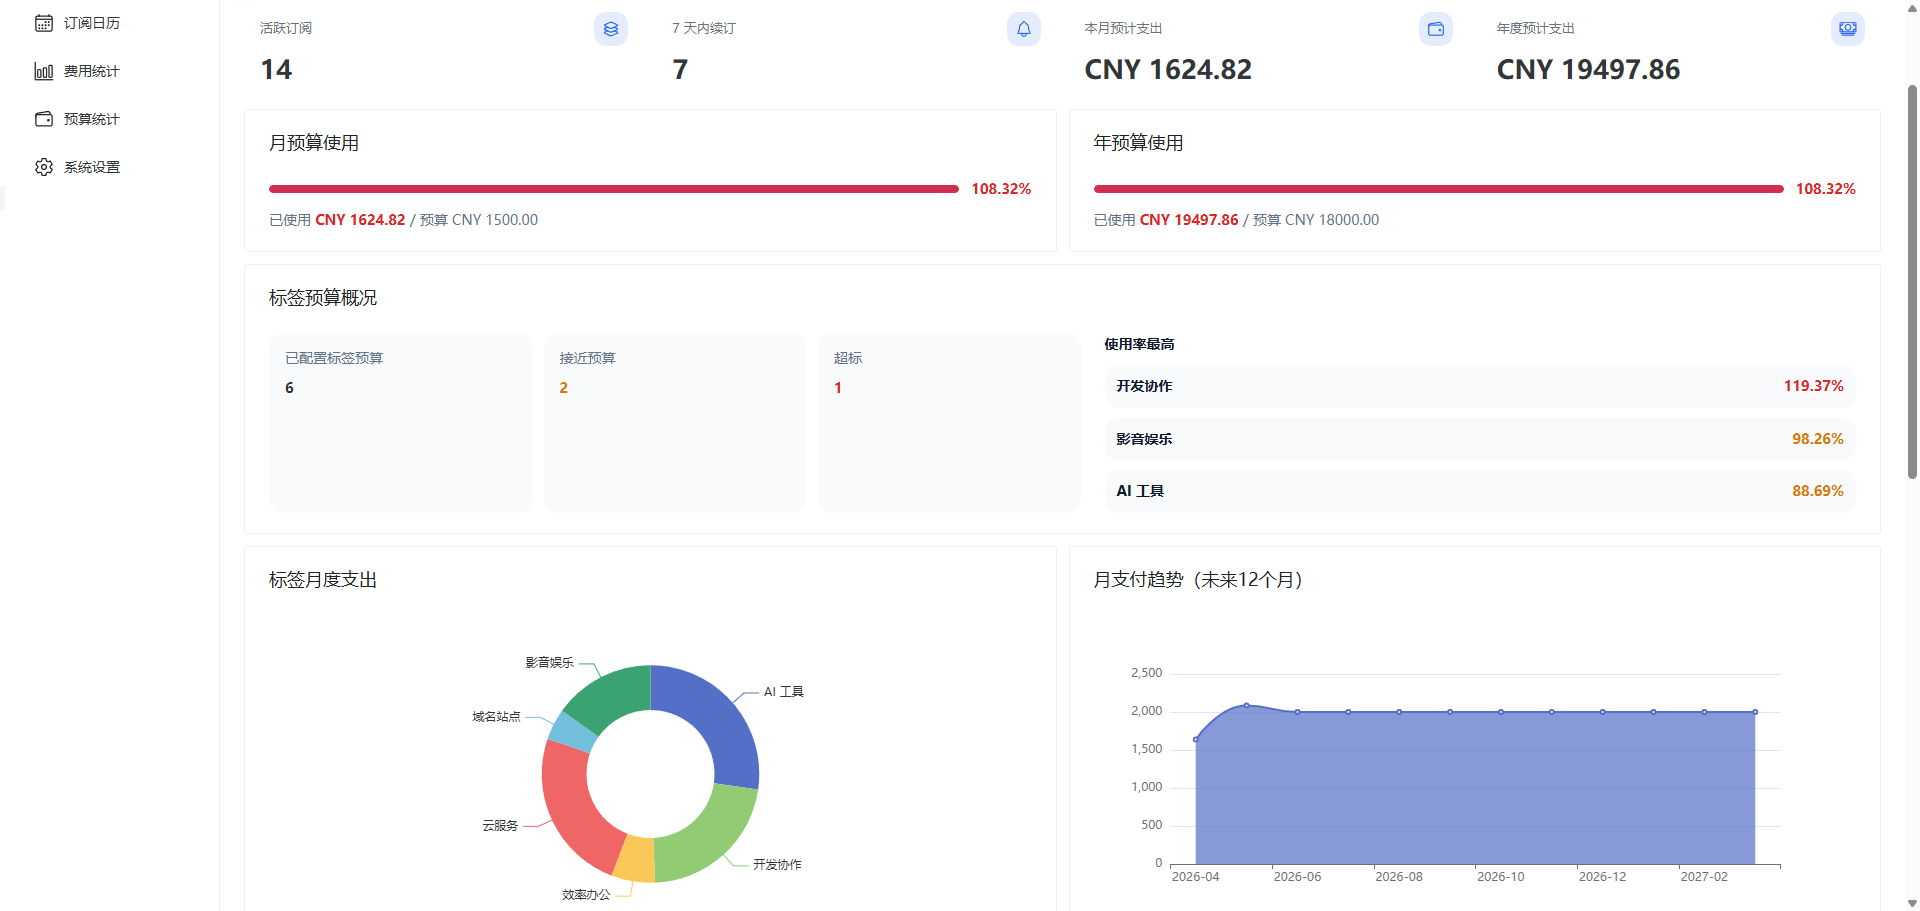
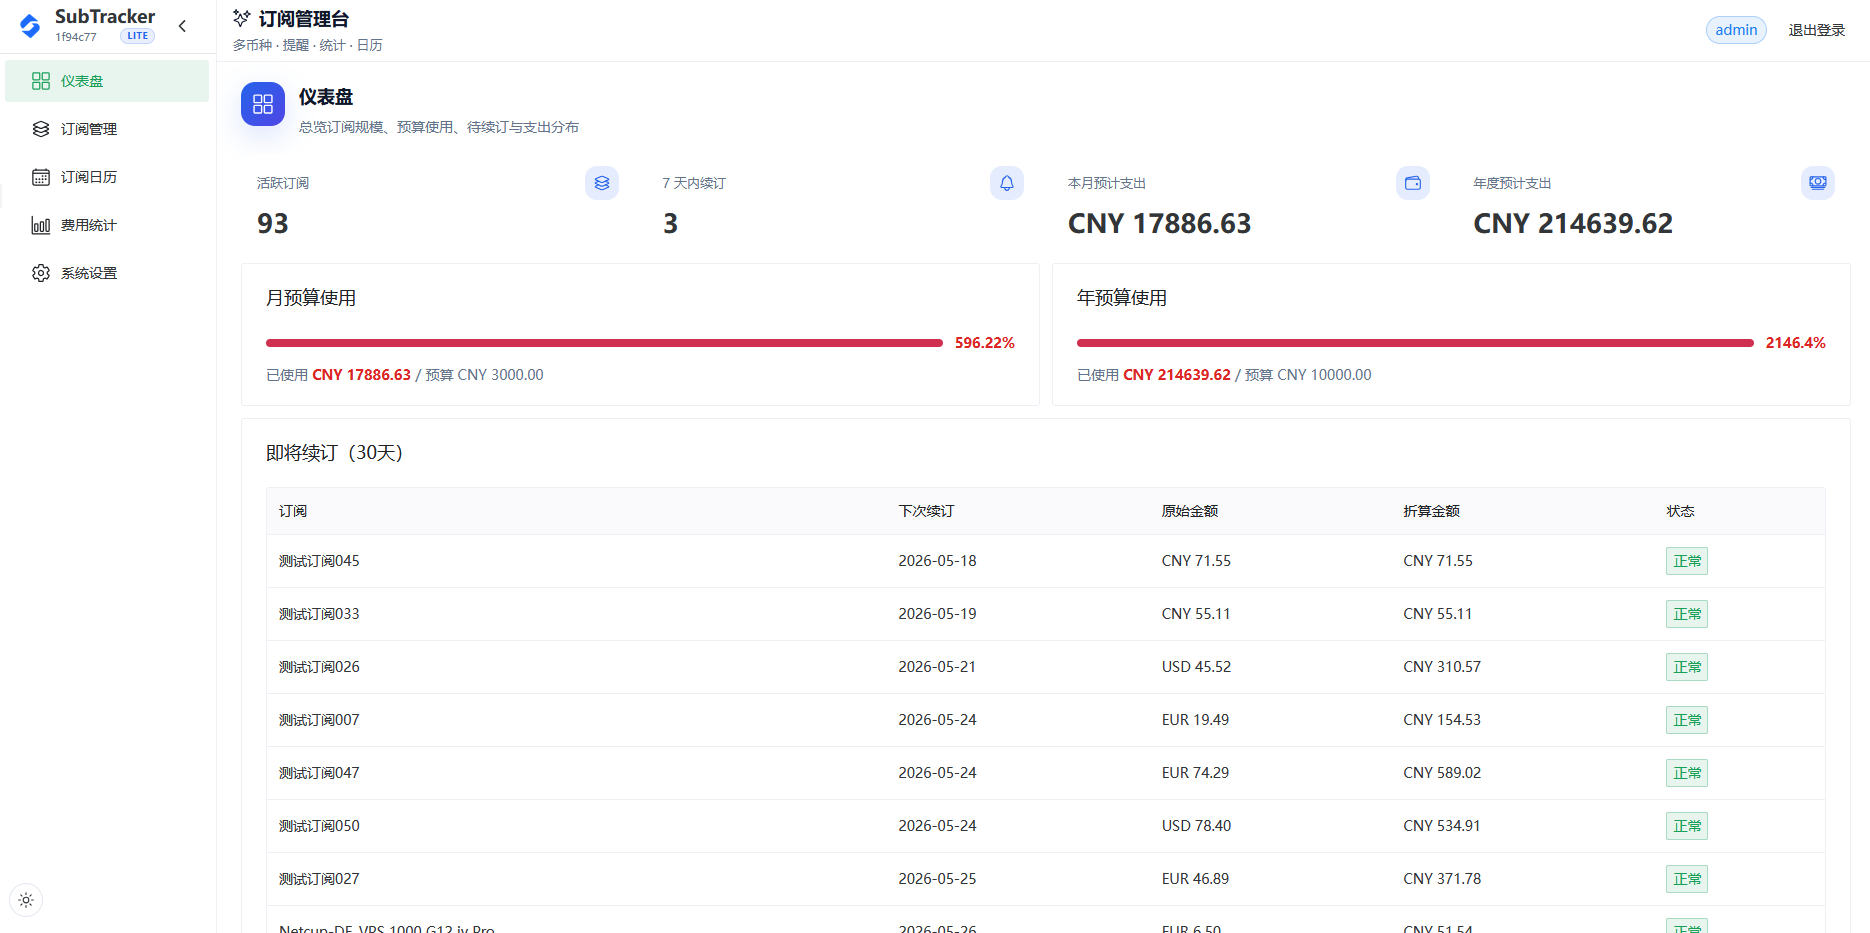
docs: update lite release notes
本次 lite 更新面向 Cloudflare Worker Free 的自部署用户，重点是让仪表盘、费用统计、登录、导入和自动续费这些高频路径更轻、更稳定。

升级说明：

- 如果你当前仍在 be70f8d2d9d1a7a0c9f6e814ff7f4c16e57cefd5，可以直接通过当前 GitHub Actions 部署到新版本。

- 本次更新不需要手工数据库迁移，也不需要重建 D1。

- 普通用户部署后刷新页面即可使用新版界面。

功能调整：

- 标签月预算已从 lite 分支移除。全局月预算、全局年预算和仪表盘预算使用率继续保留。

- 独立预算页和对应菜单入口已移除。

- 仪表盘改为轻量首页，只保留核心指标、全局预算和即将续订列表。

- 费用统计现在保留费用概览、状态分布、币种分布、月订阅支出 TOP10 和 AI 总结。

- 仪表盘趋势图、标签预算图、标签月度支出、未来 12 个月支付趋势、未来 30 天按日续订分布、自动续订占比等展示已从 lite 分支移除。

性能与稳定性优化：

- 统计和仪表盘不再展示空壳图表，减少无效内容和无意义加载。

- /statistics/overview 的负载更轻，Worker 免费版下更不容易因为统计内容过重浪费资源。

- 登录路径继续保留记住我、默认密码修改提醒和失败限流；旧账号升级后可以继续登录。

- 自动续费仍可使用，但历史积压会分批追赶，不再保证一次 cron 补完整个 backlog，从而降低单次定时任务压力。

导入与兼容：

- Wallos JSON / SQLite / ZIP 导入仍可使用。

- SubTracker 备份 ZIP 导入继续保留。

- 升级后请使用同版本前端完成导入流程，避免旧页面和新接口混用。

文档同步：

- README 已更新功能亮点和 lite 版说明。

- DEPLOYMENT 已更新能力边界、旧版本升级说明、缓存说明、导入说明、自动续费说明，以及仪表盘 / 费用统计的新版展示范围。

diff --git a/DEPLOYMENT.md b/DEPLOYMENT.md
@@ -208,15 +208,43 @@ https://api.resend.com/emails
 - Resend 邮件
 - AI 文本 / 图片识别
 - Wallos JSON / SQLite / ZIP 导入
+- SubTracker 备份 ZIP 导入
 
 ### 不支持
 
 - 本地 OCR
 - 原生 SMTP
+- 标签月预算
+- 独立预算统计页
+- 仪表盘趋势图 / 标签预算图
+- 费用统计自动续订占比图
 
 ---
 
-## 九、Worker Lite 的性能取舍
+## 九、从旧 lite 版本升级
+
+如果你的 fork 仍停留在：
+
+- `be70f8d2d9d1a7a0c9f6e814ff7f4c16e57cefd5`
+
+可以直接通过当前 GitHub Actions 部署到本版本：
+
+- **不需要手工数据库迁移**
+- **不需要重建 D1**
+
+升级后的对外变化：
+
+- 标签月预算、预算页和对应菜单入口已删除
+- 仪表盘改为轻量首页，只保留核心指标、全局预算和即将续订列表
+- 费用统计只保留费用概览、状态分布、币种分布、月订阅支出 TOP10 与 AI 总结
+- Wallos / SubTracker 备份导入仍可使用，但需要使用同版本前端完成导入流程
+- 自动续费会分批追赶历史积压，不再一次性补完整个 backlog
+
+对于普通 Web 用户，这些变化随同一版本前端一起发布；部署后刷新页面即可使用新界面。
+
+---
+
+## 十、Worker Lite 的性能取舍
 
 这个分支面向 **Cloudflare Worker Free**，因此实现上做了明确的 Lite 化裁剪，而不是完全复刻 Docker 版的运行模型。
 
@@ -233,7 +261,6 @@ https://api.resend.com/emails
 - `/settings`（5 分钟）
 - `/exchange-rates/latest`（5 分钟）
 - `/statistics/overview`（5 分钟）
-- `/statistics/budgets`（15 分钟）
 - `/calendar/events`（10 分钟）
 
 仍保留短 TTL 内存缓存的读取接口包括：
@@ -253,7 +280,7 @@ https://api.resend.com/emails
 
 - 正常写操作后，统计/日历/汇率相关接口通常会立即切到新版本缓存，而不是机械地等 TTL 过期
 - 真正可能自然短暂变旧的主要是 `/statistics/overview`，在无写操作场景下最多约 5 分钟
-- `/statistics/budgets` 与 `/calendar/events` 更依赖 version bump，正常情况下不应频繁看到明显旧值
+- `/calendar/events` 更依赖 version bump，正常情况下不应频繁看到明显旧值
 - L1 仍是 isolate 级缓存，不保证跨实例强一致
 - D1 二级缓存会跨 isolate 复用，但通过版本号失效而不是逐条删除
 
@@ -278,7 +305,7 @@ https://api.resend.com/emails
 - 读取类接口：使用 isolate 内存短缓存
 - 热点聚合接口：额外落一层 D1 `ComputedCache`
 - 通知去重：回到 D1
-- 导入预览 token：回到 D1
+- 导入预览：按 lite 版导入流程处理
 - Logo 搜索缓存：仅保留进程内短缓存
 
 另外，`ComputedCache` 过期行会通过现有的 hourly Worker cron 顺手清理，不单独增加新的调度器。
@@ -290,11 +317,12 @@ https://api.resend.com/emails
 - Wallos JSON 导入
 - Wallos SQLite 数据库导入（`.db` / `.sqlite` / `.sqlite3`）
 - Wallos ZIP 备份导入
+- SubTracker 备份 ZIP 导入
 
 其中：
 
 - JSON / SQLite / ZIP 的文件解析发生在浏览器端
-- Worker 负责接收预览结果、暂存导入令牌、处理 ZIP Logo（若启用 R2）并最终写库
+- Worker 负责处理 ZIP Logo（若启用 R2）并最终写库
 
 并且会尽量对齐 Wallos 自己的运行时语义：
 
@@ -346,8 +374,42 @@ Worker Lite 的 Logo 搜索只保留：
 - 默认每分钟触发一次提醒扫描
 - 只在规则命中的那一分钟发送提醒
 - 相比旧的 `*/5` 版本，提醒更实时，但不再做 5 分钟补偿命中
+- 没有启用任何通知渠道时，普通 scheduled scan 会直接短路；`/notifications/scan-debug` 仍可用于排障
 
-### 6. 错误提示会明确说明 Worker 限制
+自动续费也做了 lite 限额：
+
+- 历史积压会分批追赶
+- 不再保证一次 cron 就补齐所有过期周期
+
+### 6. 仪表盘 / 费用统计已按 lite 重排
+
+仪表盘只保留轻量信息：
+
+- 顶部摘要指标
+- 全局月 / 年预算使用情况
+- 即将续订列表
+
+费用统计只保留有真实数据支撑的统计视图：
+
+- 费用概览
+- 状态分布
+- 订阅币种分布
+- 月订阅支出 TOP10
+- AI 总结
+
+以下功能 / 展示已从 lite 分支移除：
+
+- 标签月预算
+- 标签月度支出
+- 未来 12 个月支付趋势
+- 未来 30 天按日续订分布
+- 自动续订占比
+
+### 7. 登录体验
+
+登录、记住我、默认密码修改提醒和登录失败限流继续保留；从旧 lite 版本升级后，原账号可以继续登录。
+
+### 8. 错误提示会明确说明 Worker 限制
 
 前端遇到：
 
@@ -361,7 +423,7 @@ Worker Lite 的 Logo 搜索只保留：
 
 ---
 
-## 十、本地手动部署（开发者可选）
+## 十一、本地手动部署（开发者可选）
 
 如果你不是普通 fork 用户，而是本地维护这个分支的开发者，也可以直接在本机执行：
 
@@ -382,7 +444,7 @@ npm run deploy:worker:r2
 
 ---
 
-## 十一、本地开发（开发者可选）
+## 十二、本地开发（开发者可选）
 
 如果你需要本地调试 Worker：
 
@@ -397,6 +459,3 @@ http://127.0.0.1:8787
 ```
 
 > 注意：本地 `wrangler dev` 不会自动触发 cron。
-
----
-

diff --git a/README.md b/README.md
@@ -5,7 +5,7 @@
 <h1 align="center">SubTracker Lite</h1>
 
 <p align="center">
-  一个现代化的自托管订阅管理工具，用来统一管理多币种订阅、续订提醒、预算分析、Logo 资源，以及 Wallos 数据迁移
+  一个现代化的自托管订阅管理工具，用来统一管理多币种订阅、续订提醒、预算概览、Logo 资源，以及 Wallos 数据迁移
 </p>
 
 <p align="center">
@@ -43,9 +43,9 @@
 
 - **订阅管理**：新增、编辑、续订、暂停、停用、记录查看、自定义排序
 - **提醒规则**：支持 `天数&时间;` 格式的灵活提醒规则，覆盖到期前、到期当天与过期提醒，并支持分钟级扫描
-- **标签系统**：多标签归类、筛选、预算分析
-- **预算能力**：总月预算、总年预算、标签月预算、独立的预算统计页
-- **统计分析**：未来 12 个月支付趋势、标签支出占比、状态分布、自动续订占比、未来 30 天续订分布
+- **标签系统**：多标签归类、筛选与自定义排序
+- **预算能力**：全局月预算、全局年预算与仪表盘预算使用率
+- **统计分析**：费用概览、状态分布、币种支出分布、月订阅支出 TOP10 与 AI 总结
 - **多币种支持**：基准货币换算、汇率快照、货币转换器
 - **通知能力**：Webhook、Resend 邮件、PushPlus、Telegram Bot
 - **Logo 能力**：上传（R2）、远程引用、网络搜索
@@ -59,7 +59,10 @@
 
 - 热点统计 / 日历接口会使用 D1 缓存来降低 Worker CPU 压力
 - **不使用 KV**
-- Wallos 导入、Logo 搜索、Cron 等能力都做了 Worker 适配
+- 不再提供标签月预算和独立预算页
+- 仪表盘保留轻量指标、全局预算和即将续订列表
+- 费用统计保留费用概览、状态分布、币种分布、TOP10 和 AI 总结
+- Wallos / SubTracker 备份导入、Logo 搜索、Cron、自动续费等能力都做了 Worker 适配
 - 遇到 `503` / CPU 超限时，前端会明确提示可能受 Worker 免费版限制影响
 
 更详细的部署、能力边界与性能说明见：
